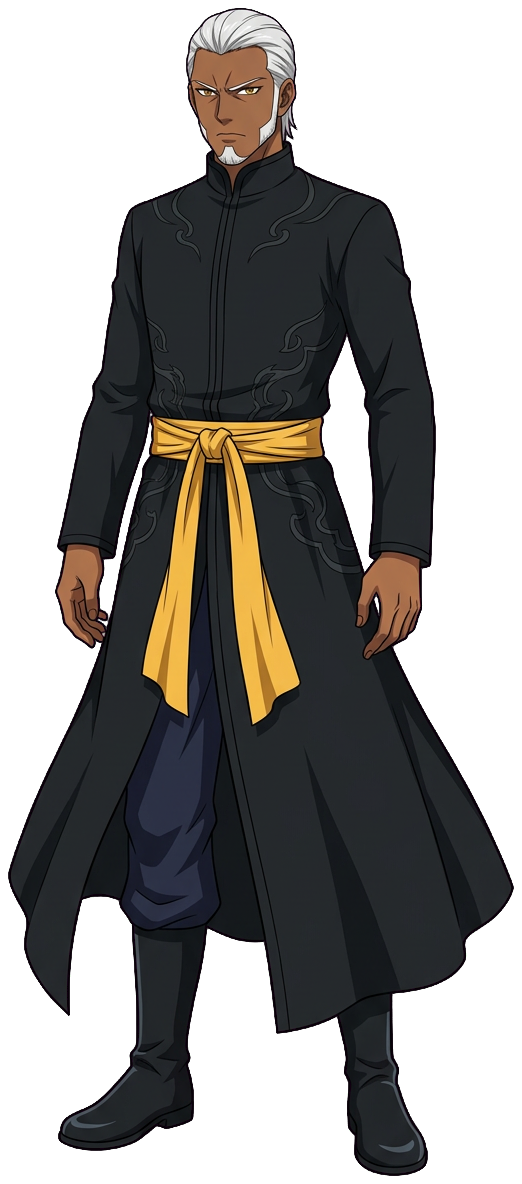
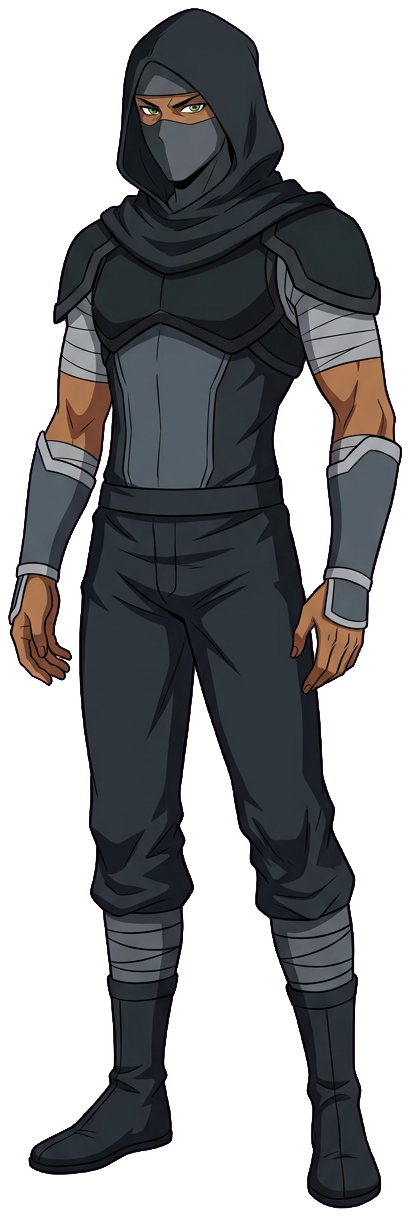
凌影按63话蒙面样子重画(用户选A)

diff --git a/dev/design/漫画复核进度.md b/dev/design/漫画复核进度.md
@@ -79,7 +79,7 @@
 | 韩闲 | hanxian | 130-12/15/16（对白 Tu es Han Xian du clan médicinal） | ❌→已重画（原为酒红长外套领巾；漫画为灰绿色后梳长发、白色高领巾、白衬衫、黑色无袖长外袍米金内衬白边、灰色前襟、白鞋） |
 | 千木 / 百烈 | qianmu / bailie | 112-07 | ✅ 一致（千木：深褐斗篷灰长发；百烈：白色高领长衣蒙眼） |
 | 琥乾 | hugan | 112-03/06（对白 Hu Gan de la branche externe） | 🔧→已重画（蓝布腰带改为棕色皮带+金色圆扣；补上藏青金色十字纹前襟、金领链、藏青披肩白色锯齿边） |
-| 凌影 | lingying | 63-03/05（蒙面兜帽黑衣）；fandom 摘面罩后黝黑老脸 | ⏳ 待定游戏中用哪一形象（问用户） |
+| 凌影 | lingying | 63-03/05（对白 Iya, Nona） | ❌→已重画（用户选A：蒙面兜帽样子——深灰黑兜帽、灰色面罩只露绿眼、深灰紧身衣+黑灰肩胸甲、浅灰臂部绑带、小腿绑带；原图为摘面罩白发老者+黄腰带） |
 | 天火尊者（曜天火，灵魂态） | tianhuo | 208-08/12/22（对白 My name is Yao Tian Huo） | ✅ 一致（光头+白色小发髻、白色长须粗眉、白色长袍绿腰带、胸前绿色圆纹）。注：漫画208话起出场（黑角域篇） |
 | 铁护法 | tiehufa | fandom 漫画图（186话） | ✅ 一致（黑兜帽、八字胡、骷髅尖刺肩甲） |
 | 地魔老鬼 | dimo | 204-09/11（对白 Superior Mo / el viejo del Valle del Demonio） | ✅ 一致（灰皮光头尖耳、额头红疤、深褐骷髅纹斗篷、红围巾、灰白长袍） |
@@ -87,6 +87,7 @@
 | 范凌 | fanling | 100-19（字幕 Líder de la secta de sangre - Fan Ling） | 🔧→已重画（去掉红色长外套；漫画为红衬衫+灰白双排扣马甲、黑色褶边领巾+红宝石扣、白十字吊坠、尖耳） |
 
 ## 用户决定（2026-09-27）
+- 凌影：选A——用第63话蒙面兜帽样子。
 - 云山第二形态：选A——人物图不变，半血时身后冒出魂殿黑影（特效层），招式变强。
 - 提问方式：选项框会自动跳过，以后问题直接写在对话里用中文列选项，停下来等用户回复。
 - 魔兽山脉敌人：删掉 疾风狼/紫影魔狼/火纹魔狼，改用漫画中出现过的魔兽（白色魔猿 25-26、棕色獠牙巨兽 27-12、小医仙的巨鹰 24-19 等），每种按漫画画。
